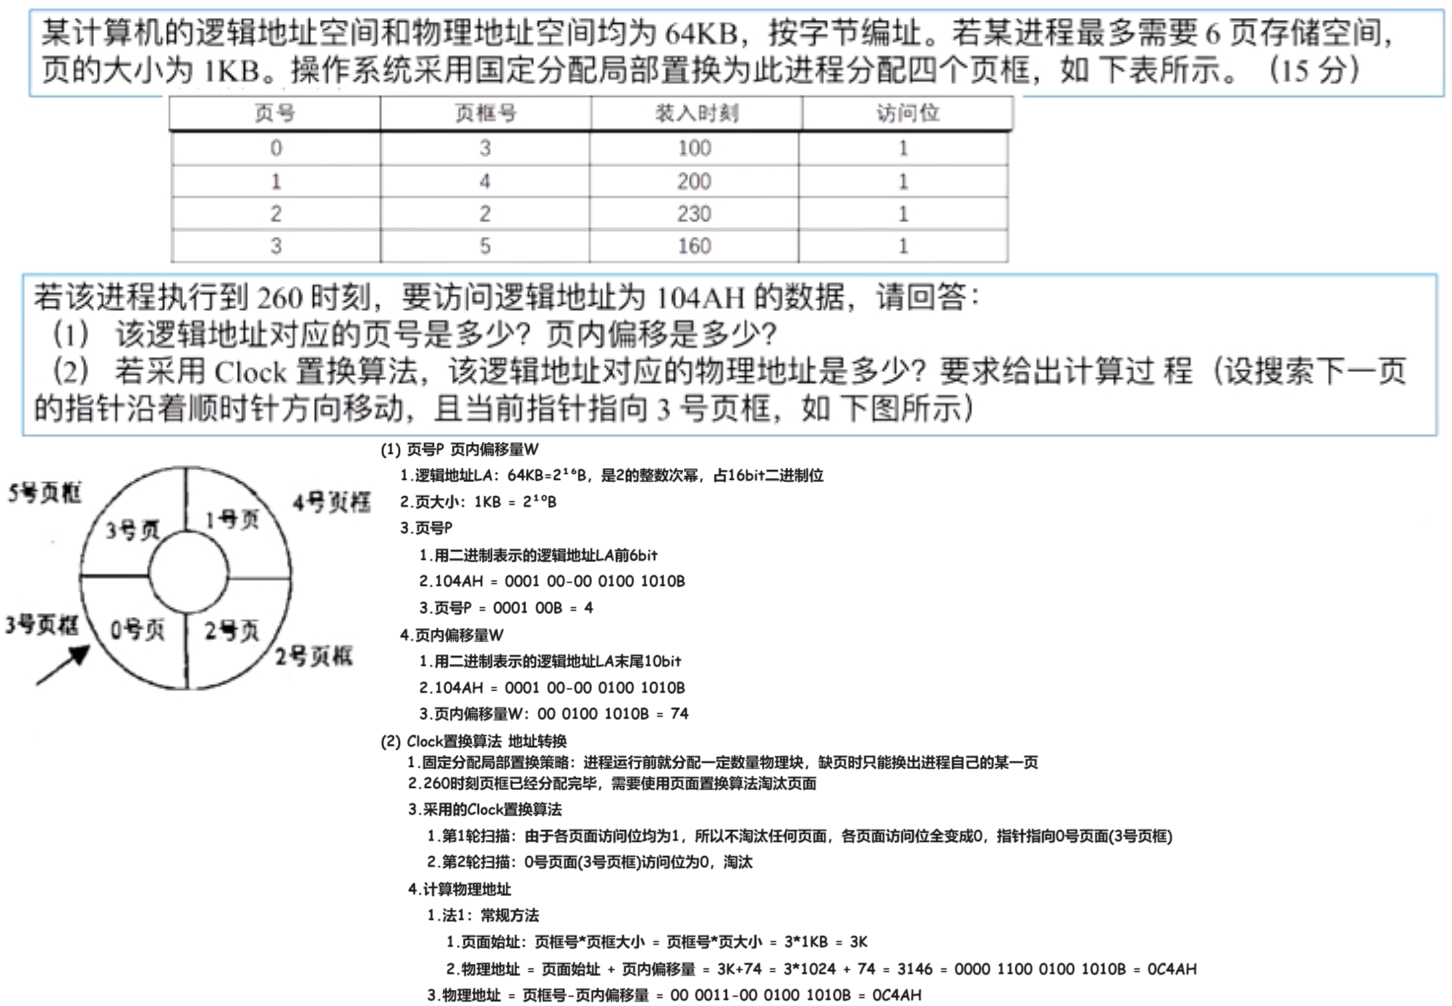
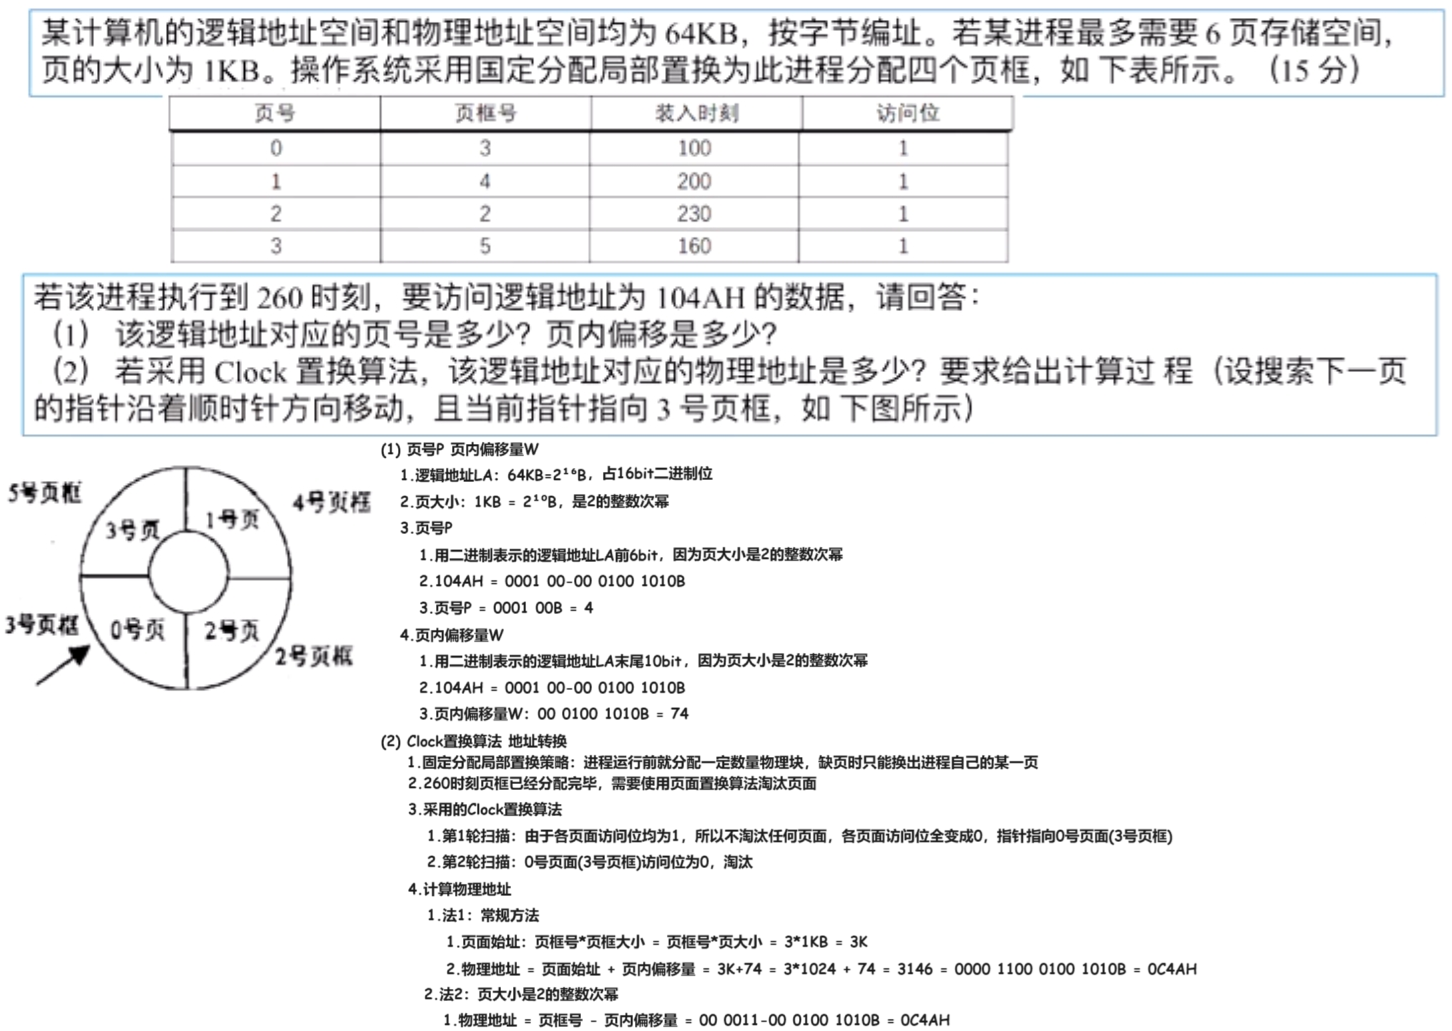
240801

Changed region(s): [[0.0, 0.0, 0.9917, 1.0]]

diff --git a/01 初试/01 OS/01 题集/01 820/01 18 9= 7 + 2/02 大题 2/03 计算题 2/01 计算题01 页号 页内偏移量 CLOCK置换算法 240729/02 Doc.md b/01 初试/01 OS/01 题集/01 820/01 18 9= 7 + 2/02 大题 2/03 计算题 2/01 计算题01 页号 页内偏移量 CLOCK置换算法 240729/02 Doc.md
@@ -1,6 +1,6 @@
 # 00 背诵
 
-<img src="https://cvp.oss-cn-shanghai.aliyuncs.com/picgo/202408010821250.png" alt="image-20240801082138305" style="zoom:50%;" />
+<img src="https://cvp.oss-cn-shanghai.aliyuncs.com/picgo/202408010833802.png" alt="image-20240801083338428" style="zoom:50%;" />
 
 
 
@@ -20,11 +20,7 @@
 
 # 03 答案解析
 
-
-
-
-
-
+<img src="https://cvp.oss-cn-shanghai.aliyuncs.com/picgo/202408010836406.png" alt="image-20240801083606249" style="zoom:50%;" />
 
 
 
